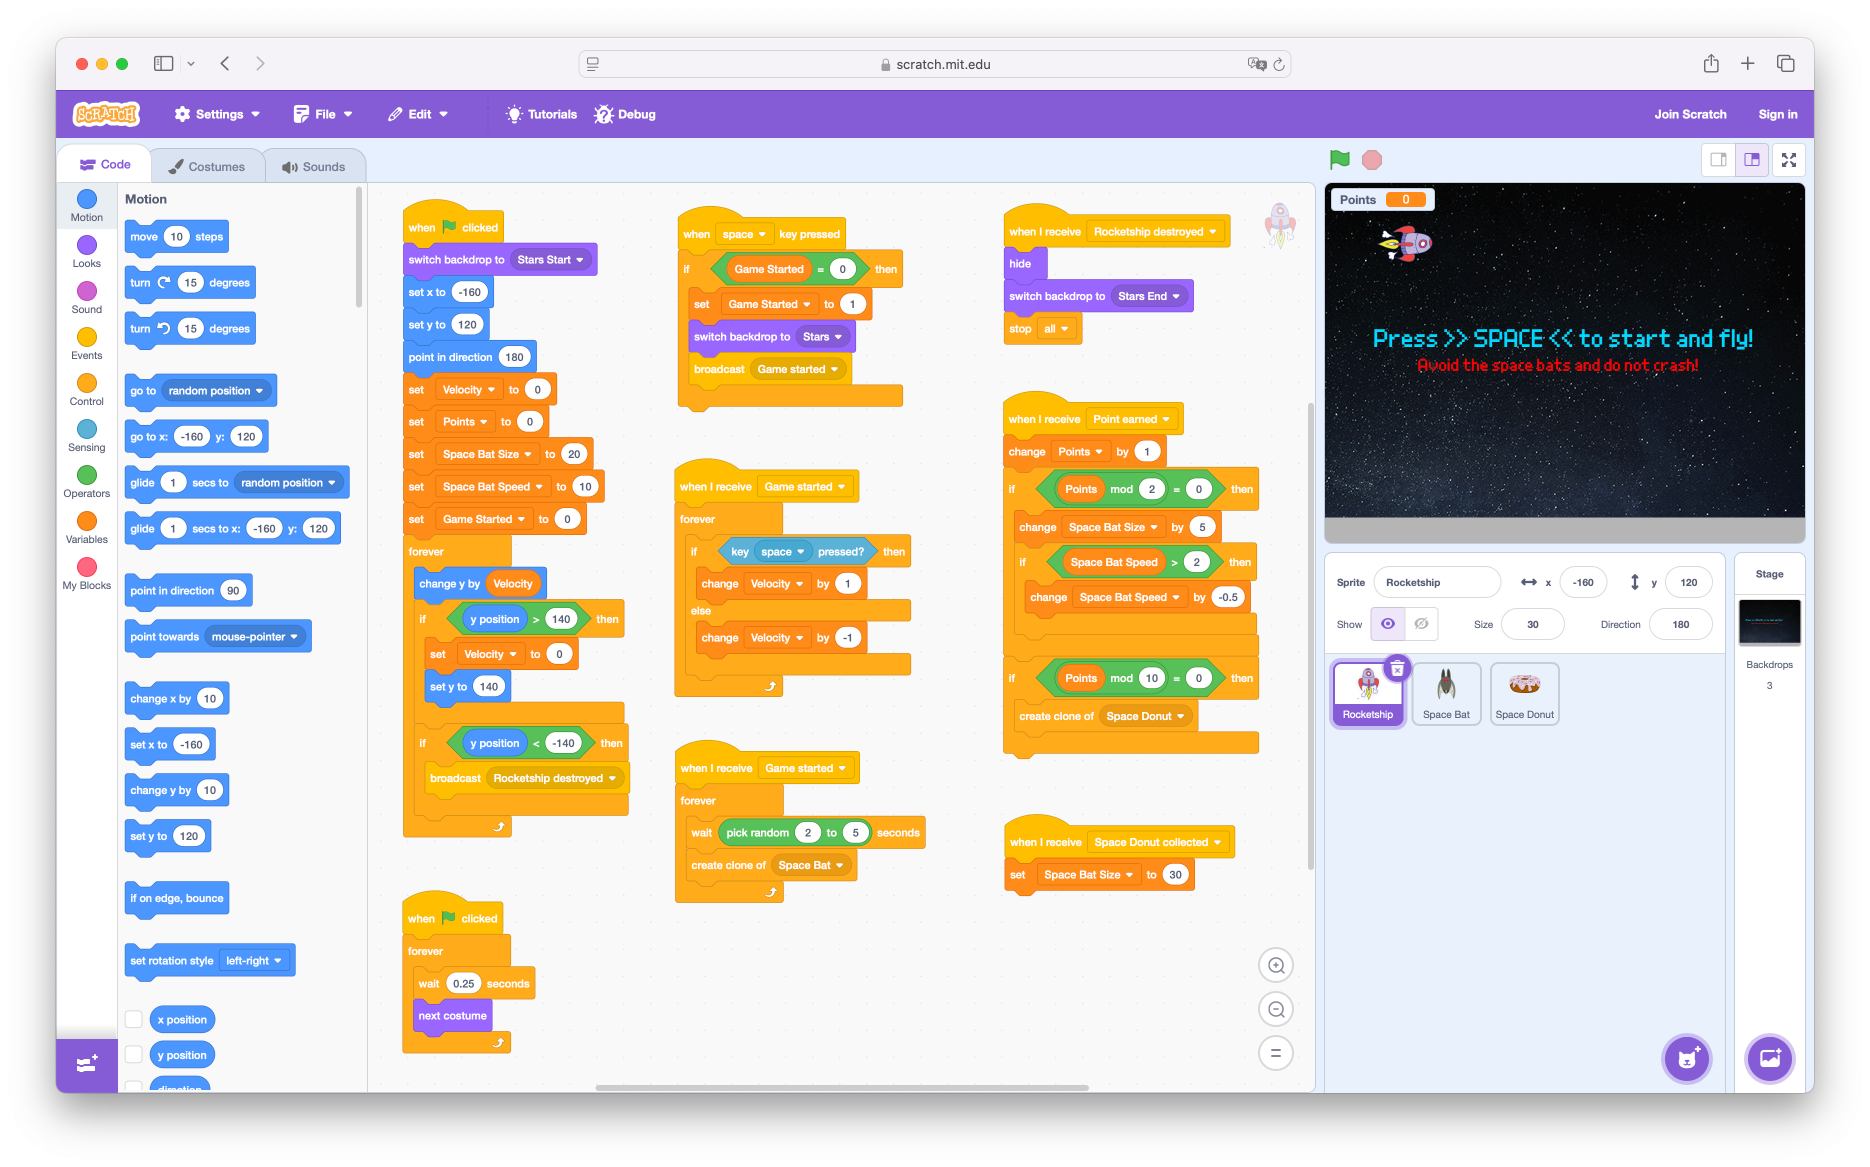
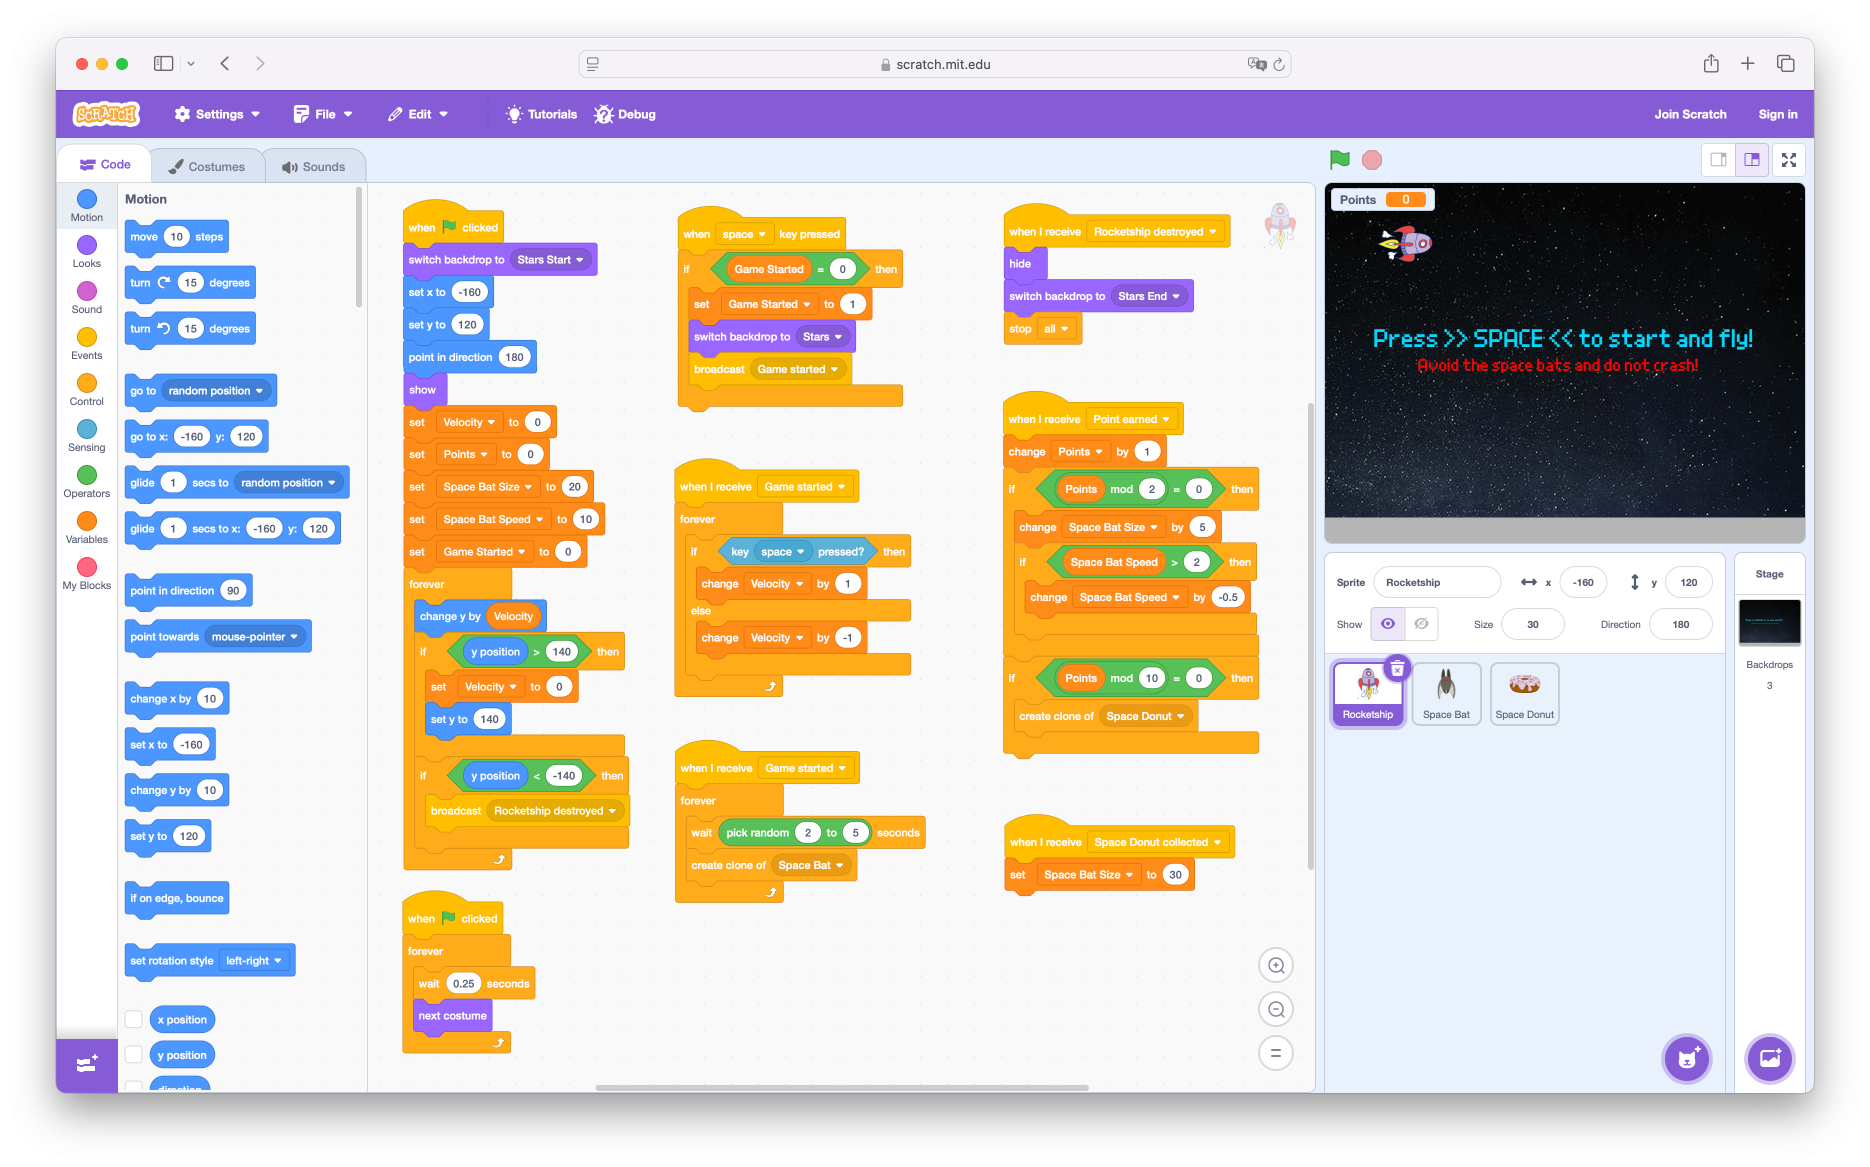
fix(space-bats): show rocketship at start and rotate the space donut

Changed region(s): [[0.2171, 0.3085, 0.3412, 0.7712]]

diff --git a/space-bats/tutorial.md b/space-bats/tutorial.md
@@ -449,6 +449,12 @@ Every Space Bat that passes the rocketship gives us one point.
      | Looks    | "switch backdrop to [Stars End]" |
      | Control  | "stop [all]"                     |
 
+   - Add an "show" block in the first "when green flag clicked" event block.
+
+     | Category | Block  |
+     | -------- | ------ |
+     | Looks    | "show" |
+
    ![Add the screens 3](./images/screenshot_screens_6.webp)
 
 ### Add a Space Donut
@@ -468,31 +474,38 @@ Every Space Bat that passes the rocketship gives us one point.
 
    Add the following blocks:
 
-   | Category  | Block                              |
-   | --------- | ---------------------------------- |
-   | Control   | "when I start as a clone"          |
-   | Motion    | "set x to (250)"                   |
-   | Motion    | "set y to ( )"                     |
-   | Operators | "pick random (-140) to (140)"      |
-   | Looks     | "show"                             |
-   | Motion    | "glide (10) secs to x:(-250) y:()" |
-   | Motion    | "y position"                       |
-   | Control   | "delete this clone"                |
+   - Movement:
 
-   | Category | Block                               |
-   | -------- | ----------------------------------- |
-   | Control  | "when I start as a clone"           |
-   | Control  | "forever"                           |
-   | Control  | "if < > then"                       |
-   | Sensing  | "touching [Rocketship] ?"           |
-   | Events   | "broadcast (Space Donut collected)" |
-   | Control  | "delete this clone"                 |
+     | Category  | Block                              |
+     | --------- | ---------------------------------- |
+     | Control   | "when I start as a clone"          |
+     | Motion    | "set x to (250)"                   |
+     | Motion    | "set y to ( )"                     |
+     | Operators | "pick random (-140) to (140)"      |
+     | Looks     | "show"                             |
+     | Motion    | "glide (10) secs to x:(-250) y:()" |
+     | Motion    | "y position"                       |
+     | Control   | "delete this clone"                |
 
-   | Category | Block                 |
-   | -------- | --------------------- |
-   | Control  | "forever"             |
-   | Control  | "wait (0.25) seconds" |
-   | Looks    | "next costume"        |
+   - Collision:
+
+     | Category | Block                               |
+     | -------- | ----------------------------------- |
+     | Control  | "when I start as a clone"           |
+     | Control  | "forever"                           |
+     | Control  | "if < > then"                       |
+     | Sensing  | "touching [Rocketship] ?"           |
+     | Events   | "broadcast (Space Donut collected)" |
+     | Control  | "delete this clone"                 |
+
+   - Rotation:
+
+     | Category | Block                     |
+     | -------- | ------------------------- |
+     | Control  | "when I start as a clone" |
+     | Control  | "forever"                 |
+     | Control  | "wait (0.1) seconds"      |
+     | Motion   | "turn right (10) degrees" |
 
    ![Add Space Donut 1](./images/screenshot_space-donut_1.webp)
 
